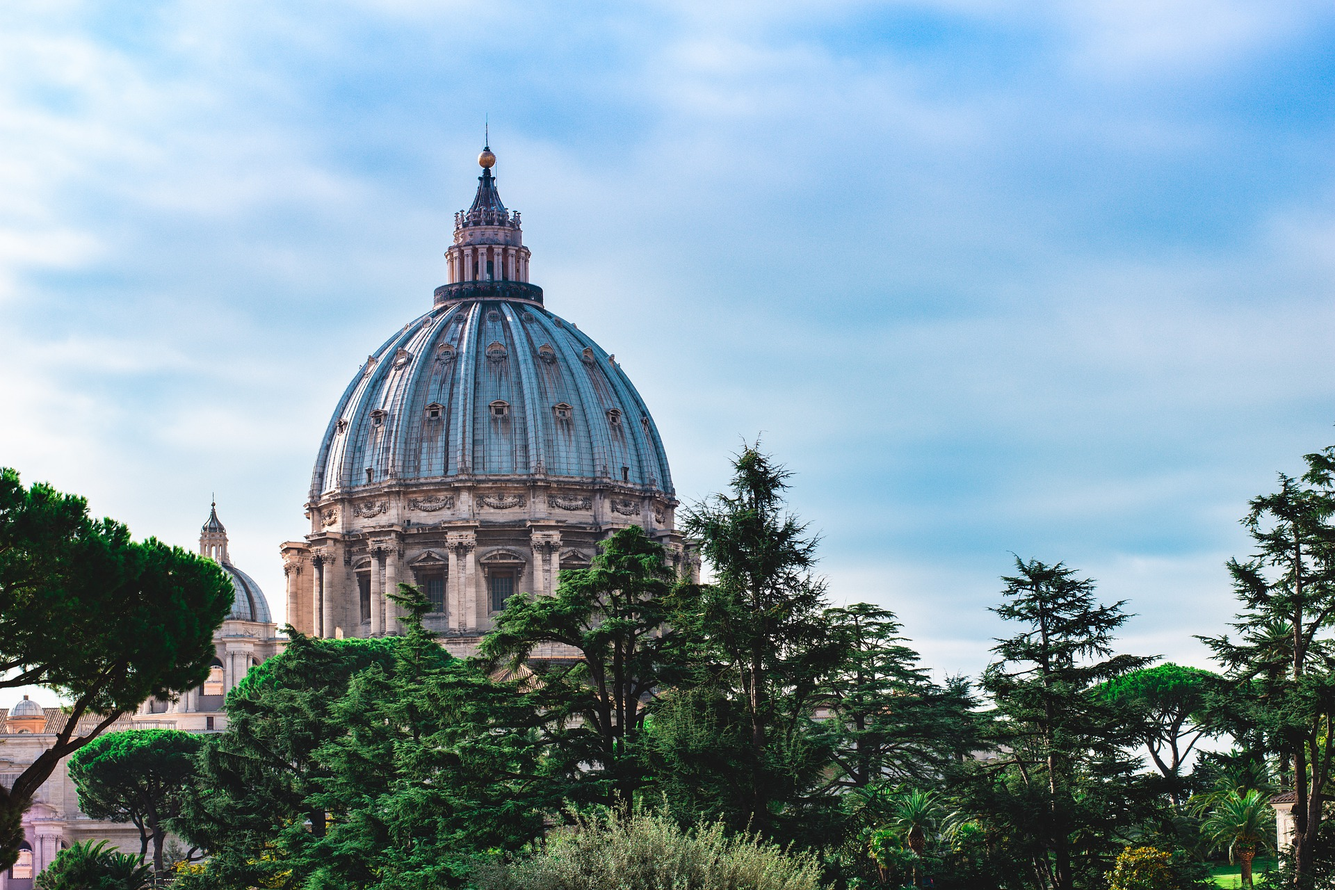
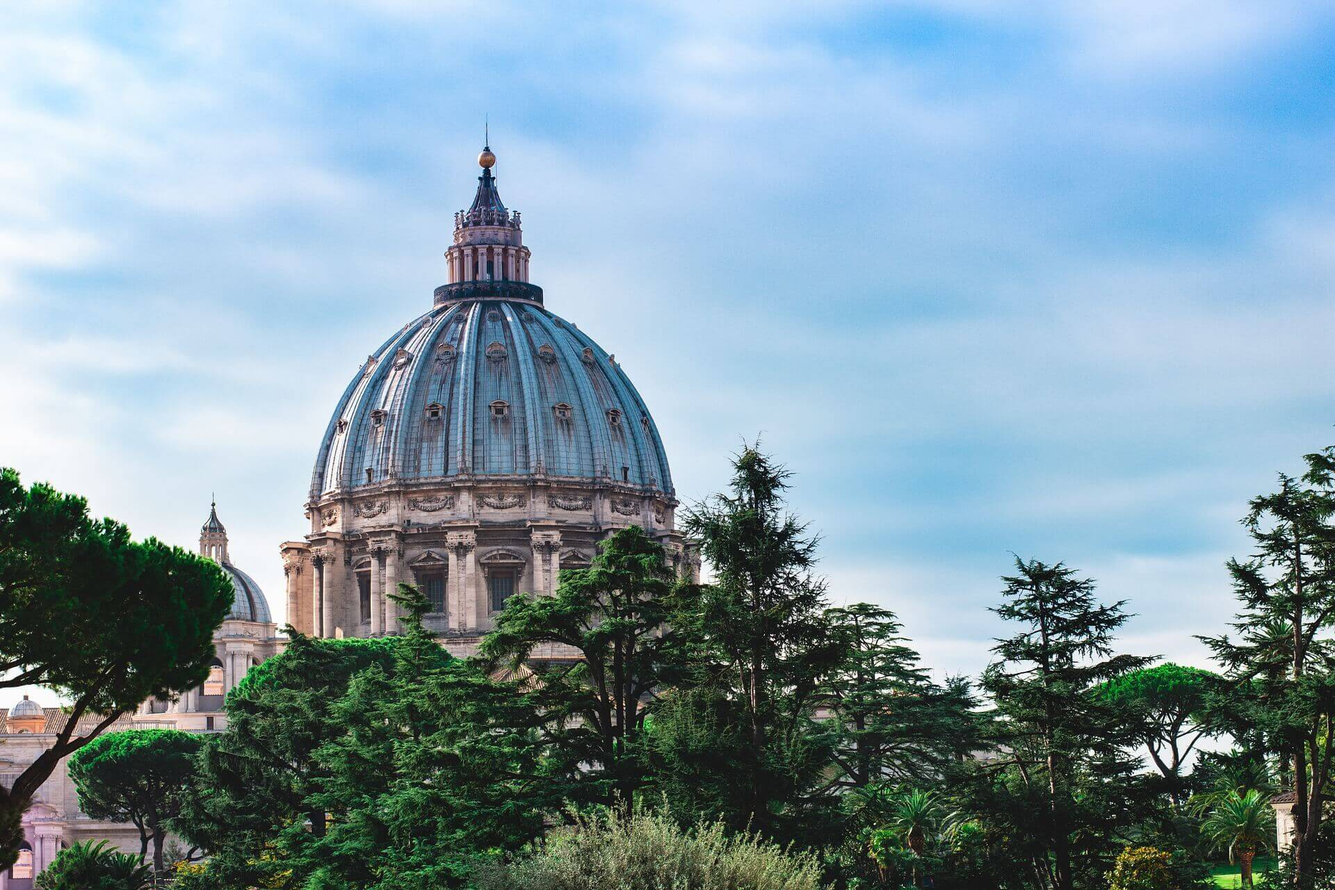
minimalize images, add media queries for navbar and home page, fixed bugs

diff --git a/src/components.js/Home.js b/src/components.js/Home.js
@@ -13,6 +13,7 @@ import img3 from '../assets/images/backgroundImg/img3.jpg'
 import img4 from '../assets/images/backgroundImg/img4.jpg'
 import img5 from '../assets/images/backgroundImg/img5.jpg'
 import RomaView from '../assets/images/backgroundImg/RomaView.jpg'
+import { Link } from 'react-router-dom';
 
 
 const Home = () => {
@@ -155,29 +156,29 @@ const Home = () => {
       <div
         className={`absolute top-0 left-0 right-0 bottom-0 `} style={{ backgroundImage: `url(${background})`, backgroundSize: 'cover', backgroundRepeat: 'no-repeat' }}></div>
 
-      <div className={`w-full  flex items-center overflow-y-hidden relative z-10`}>
+      <div className={`w-full  flex items-center overflow-hidden relative z-10`}>
         <ul className='ul-container text-gray-200 p-4 m-20 mr-25 bg-gray-800 opacity-75 transition duration-300 rounded-lg'>
 
-          <li className='monument-name m-5 relative' onMouseOver={() => onMouseOver('colloseum')} onMouseOut={() => onMouseOut('colloseum')}>Koloseum w Rzymie
-            <span className='block w-2/3 h-0.5 bg-gray-200 absolute -bottom-5 -left-10 transition duration'></span>
+          <li className='monument-name m-5 relative transition ' onMouseOver={() => onMouseOver('colloseum')} onMouseOut={() => onMouseOut('colloseum')}><Link to='/history#koloseum'>Koloseum w Rzymie</Link>
+            <span className='block w-2/3 h-0.5 bg-gray-200 absolute -bottom-5 -left-10 '></span>
           </li>
           <div className={` transition duration-500 home-img-container absolute ${mouseOn.colloseum.isHover ? 'flex flex-col' : `${mouseOn.colloseum.selected ? 'opacity-1' : 'opacity-0'}`}`}>
             <img src={colosseum} alt="colloseum" className='rounded-lg ' />
             <div className='flex items-center transition duration-1000 delay-300'>
-              <p className='text-xl mr-2 text-gray-500'>Let see something </p><ArrowRightAltIcon fontSize='large' className='text-gray-500' />
+              <p className='text-xl mr-2 text-gray-500'>Let see something</p><ArrowRightAltIcon fontSize='large' className='text-gray-500' />
             </div>
           </div>
 
-          <li className='monument-name m-5 relative' onMouseOver={() => onMouseOver('fontannaDiTrevi')} onMouseOut={() => onMouseOut('fontannaDiTrevi')}>Fontanna Di Trevi
+          <li className='monument-name m-5 relative' onMouseOver={() => onMouseOver('fontannaDiTrevi')} onMouseOut={() => onMouseOut('fontannaDiTrevi')}><Link to='/history#fontanna'>Fontanna Di Trevi</Link>
             <span className='block w-2/3 h-0.5 bg-gray-200 absolute -bottom-5 -left-10 transition duration'></span></li>
-          <div className={`transition duration-500 home-img-container absolute ${mouseOn.fontannaDiTrevi.isHover ? 'flex flex-col' : `${mouseOn.fontannaDiTrevi.selected ? 'opacity-1' : 'opacity-0'}`}`} >
+          <div className={` transition duration-500 home-img-container absolute ${mouseOn.fontannaDiTrevi.isHover ? 'flex flex-col' : `${mouseOn.fontannaDiTrevi.selected ? 'opacity-1' : 'opacity-0'}`}`} >
             <img src={fontannaDiTrevi} alt="fontannaDiTrevi" className='rounded-lg ' />
             <div className='flex items-center transition duration-1000 delay-300'>
               <p className='text-xl mr-2 text-gray-300'>Let see something </p><ArrowRightAltIcon fontSize='large' className='text-gray-300' />
             </div>
           </div>
 
-          <li className='monument-name m-5 relative' onMouseOver={() => onMouseOver('forumRomanum')} onMouseOut={() => onMouseOut('forumRomanum')}>Forum Romanum
+          <li className='monument-name m-5 relative' onMouseOver={() => onMouseOver('forumRomanum')} onMouseOut={() => onMouseOut('forumRomanum')}><Link to='/history#forumRomanum'>Forum Romanum</Link>
             <span className='block w-2/3 h-0.5 bg-gray-200 absolute -bottom-5 -left-10 transition duration'></span></li>
           <div className={`transition duration-500 home-img-container absolute ${mouseOn.forumRomanum.isHover ? 'flex flex-col' : `${mouseOn.forumRomanum.selected ? 'opacity-1' : 'opacity-0'}`}`} >
             <img src={forumRomanum} alt="fontannaDiTrevi" className='rounded-lg ' />
@@ -187,7 +188,7 @@ const Home = () => {
           </div>
 
 
-          <li className='monument-name m-5 relative' onMouseOver={() => onMouseOver('muzeaWatykanskie')} onMouseOut={() => onMouseOut('muzeaWatykanskie')} >Muzea Watykańskie
+          <li className='monument-name m-5 relative' onMouseOver={() => onMouseOver('muzeaWatykanskie')} onMouseOut={() => onMouseOut('muzeaWatykanskie')}><Link to='/history#muzeaWatykanskie'>Muzea Watykańskie</Link>
             <span className='block w-2/3 h-0.5 bg-gray-200 absolute -bottom-5 -left-10 transition duration'></span></li>
           <div className={`transition duration-500 home-img-container absolute ${mouseOn.muzeaWatykanskie.isHover ? 'flex flex-col' : `${mouseOn.muzeaWatykanskie.selected ? 'opacity-1' : 'opacity-0'}`}`} >
             <img src={muzeaWatykanskie} alt="fontannaDiTrevi" className='rounded-lg ' />
@@ -196,7 +197,7 @@ const Home = () => {
             </div>
           </div>
 
-          <li className='monument-name m-5 relative' onMouseOver={() => onMouseOver('kaplicaSykstynska')} onMouseOut={() => onMouseOut('kaplicaSykstynska')} >Kaplica Sykstyńska
+          <li className='monument-name m-5 relative' onMouseOver={() => onMouseOver('kaplicaSykstynska')} onMouseOut={() => onMouseOut('kaplicaSykstynska')}><Link to='/history#kaplicaSykstynska'>Kaplica Sykstyńska</Link>
             <span className='block w-2/3 h-0.5 bg-gray-200 absolute -bottom-5 -left-10 transition duration'></span></li>
           <div className={`transition duration-500 home-img-container absolute ${mouseOn.kaplicaSykstynska.isHover ? 'flex flex-col' : `${mouseOn.kaplicaSykstynska.selected ? 'opacity-1' : 'opacity-0'}`}`} >
             <img src={kaplicaSykstynska} alt="fontannaDiTrevi" className='rounded-lg ' />
@@ -204,9 +205,6 @@ const Home = () => {
               <p className='text-xl mr-2 text-gray-300'>Let see something </p><ArrowRightAltIcon fontSize='large' className='text-gray-300' />
             </div>
           </div>
-
-
-
         </ul>
       </div>
 
@@ -215,3 +213,7 @@ const Home = () => {
 }
 
 export default Home
+
+
+// dlaczego nie przenosi do odpowiedniego #. znalezc blad
+

diff --git a/src/components.js/Navbar.js b/src/components.js/Navbar.js
@@ -1,4 +1,5 @@
 import React from 'react'
+import "../styles/Navbar.css"
 import { useHistory } from 'react-router-dom'
 import flag from '../assets/images/flag.jpg'
 
@@ -7,18 +8,15 @@ const Navbar = ({ active }) => {
 
   const history = useHistory()
 
-
-
   return (
 
-    <div className={`absolute top-0 z-10 pt-10 flex justify-between items-center transform transition duration-200   ${active ? 'translate-x-0' : "-translate-x-full"} sm:p-4 sm:h-14 sm:w-full sm:flex sm:translate-x-0 `}>
-      <div className='ml-2 w-12 h-15'><img src={flag} alt="italy flag" /></div>
-      <h1 className='text-5xl pt-12 text-center text-gray-400'>Rome</h1>
-      <ul className=' flex flex-col justify-center items-center sm:flex-row'>
-        <li className='p-2 cursor-pointer rounded hover:bg-black hover:text-white hover:rounded transition duration-200' onClick={() => history.push('/home')}>Home</li>
-        <li className='p-2 cursor-pointer rounded hover:bg-black hover:text-white  hover:rounded  transition duration-200' onClick={() => history.push('/about')}>Projects</li>
-        <li className='p-2 cursor-pointer rounded hover:bg-black hover:text-white hover:rounded  transition duration-200' onClick={() => history.push('/history')}>History</li>
-        <li className='p-2 cursor-pointer rounded hover:bg-black hover:text-white hover:rounded  transition duration-200' onClick={() => history.push('/contact')}>About</li>
+    <div id='navbar' className={`z-20 w-full bg-gray-100 h-screen navbar absolute top-0 p-2 flex flex-col  items-center transform transition duration-200  ${active ? 'translate-x-0' : "-translate-x-full"} sm:p-10 sm:flex-row sm:justify-between sm:h-14 sm:translate-x-0  sm:bg-transparent`}>
+      <div className='mt-20 sm:mt-0 ml-2 w-12 h-15'><img src={flag} alt="italy flag" /></div>
+      <h1 className='hidden sm:block text-5xl text-center text-gray-400'>Rome</h1>
+      <ul className='mt-20 sm:mt-0 flex flex-col justify-center items-center sm:flex-row'>
+        <li className='mt-5 sm:mt-0 bg-black-5 p-2 cursor-pointer rounded hover:bg-black hover:text-white hover:rounded transition duration-200' onClick={() => history.push('/home')}>Home</li>
+        <li className='mt-10 sm:mt-0 p-2 cursor-pointer rounded hover:bg-black hover:text-white hover:rounded  transition duration-200' onClick={() => history.push('/history')}>History</li>
+        <li className='mt-5 sm:mt-0 p-2 cursor-pointer rounded hover:bg-black hover:text-white hover:rounded  transition duration-200' onClick={() => history.push('/about')}>About</li>
       </ul>
     </div>
   )

diff --git a/src/components.js/About.js b/src/components.js/About.js
@@ -2,17 +2,13 @@ import React from 'react'
 
 const About = ({ active }) => {
   return (
-    <div className={`card text-center ${active && 'ml-52 '}`}>
-      about
-
-      <p className=''>Lorem ipsum dolor sit amet consectetur adipisicing elit. Eius magni nulla, vero repudiandae officia saepe iste reprehenderit facilis dicta repellendus quisquam aut maiores maxime alias sed omnis cum sint harum.
-        Architecto corporis voluptas eligendi ipsum consequuntur ducimus! Nostrum placeat illo qui corporis, vero quas quod asperiores dolorum dignissimos cumque! Commodi delectus dignissimos et quis nisi totam reprehenderit aut illum sapiente?
-        Recusandae doloremque reiciendis harum tempora nulla quis dignissimos quia temporibus alias! Numquam vitae, sint vero aperiam, ullam consectetur accusantium minima quibusdam ipsa reprehenderit nemo explicabo. Voluptatum non sed maiores laboriosam!
-        Aut consequuntur consequatur, fugit ea, officia labore facere ipsa minima eligendi assumenda, cupiditate quas cumque? Labore fugit animi, nostrum, et exercitationem, obcaecati rerum totam molestias odio libero tenetur ipsum rem.
-        Velit quae nemo ea vitae est error fugiat deserunt odit eveniet facere iure, minima accusamus in corporis quo excepturi distinctio nostrum sunt suscipit dolores sint tenetur rem! Ad, error facilis!
-        Incidunt, veritatis eaque quod, perferendis similique aut eos ipsa mollitia omnis consectetur optio totam quo commodi porro quis necessitatibus nobis ea numquam nam? Eum exercitationem quia, labore laudantium non sed.
-        Ex voluptas, iste earum fuga inventore consectetur quis sed odit consequuntur accusantium numquam itaque perferendis quam omnis voluptate pariatur rem autem qui. Necessitatibus aperiam hic libero! Aut hic sunt aliquam.
-        Quasi praesentium atque aperiam neque, saepe tempora tempore eligendi consequuntur maiores deserunt odit. Asperiores, optio excepturi. Sint ea eos </p>
+    <div className={`card text-center ${active && 'ml-52'} `}>
+      <p className='mt-10 ml-20 mr-20 w-auto'>
+        Hi! This website was created randomly. It was made to practice tailwind.
+        <br />
+        <br />
+        Not for commercial using.
+      </p>
     </div>
   )
 }

diff --git a/src/App.js b/src/App.js
@@ -11,7 +11,7 @@ import {
 import Home from './components.js/Home';
 import About from "./components.js/About";
 import Start from "./components.js/Start";
-import History from "./components.js/History";
+import History from "./components.js/History/History";
 import { AnimatePresence, motion } from 'framer-motion';
 
 
@@ -28,9 +28,12 @@ function App() {
 
   useEffect(() => {
     window.addEventListener('resize', updateWidthAndHeight)
+    if (breakpoint >= 640) {
+      setActive(false)
+    }
     return () => window.removeEventListener('resieze', updateWidthAndHeight)
   })
-
+  console.log(active)
   return (
     <motion.div
       // initial={{ x: 300, opacity: 0 }}
@@ -39,13 +42,13 @@ function App() {
       className="App relative font-sans">
       <Router>
         <Navbar active={active} />
-        {breakpoint <= 640 ? <MenuIcon onClick={onClickButton} className='absolute top-3 left-3 z-10 cursor-pointer sm:z-0 sm:text-red-400' /> : ''}
+        {breakpoint <= 640 ? <MenuIcon onClick={onClickButton} className='fixed top-3 left-3 z-20 cursor-pointer sm:z-0 sm:text-red-400' /> : ''}
         <AnimatePresence exitBeforeEnter>
           <Switch>
             <Route path='/' exact><Start /></Route>
             <Route component={Home} path='/home' />
             <Route path='/about'><About active={active} /></Route>
-            <Route component={History} path='/history' />
+            <Route path='/history' ><History active={active}></History></Route>
           </Switch>
         </AnimatePresence>
       </Router>

diff --git a/src/styles/Home.css b/src/styles/Home.css
@@ -8,8 +8,10 @@
 .ul-container li{
   transition: 1s 0.3s;
 }
+
 .ul-container li:nth-child(n):hover span{
-  left: 10%
+  left: 10%;
+  transition: 0.3s ease-in;
 }
 .home-img-container{
   width: 800px;
@@ -20,4 +22,69 @@
 .home-img-container img{
   width:80%;
   height: 80%;
+}
+@media screen and (max-width: 1500px) {
+  .home-img-container{
+    top: 5%;
+    right: -5%;
+  }
+}
+@media screen and (max-width: 1300px) {
+  .home-img-container{
+    width:650px;
+    height: 450px;
+    top: 10%;
+  }
+
+  .ul-container li{
+font-size: 28px;
+  }
+}
+
+@media screen and (max-width: 1100px) {
+  .home-img-container{
+    width:550px;
+    height: 450px;
+
+  }
+
+  .ul-container li{
+    font-size: 24px;
+  }
+}
+
+@media screen and (max-width: 1000px) {
+  .home-img-container{
+    display: none;
+  }
+  .ul-container{
+    display: flex;
+    flex-direction: column;
+}
+  .ul-container li{
+    font-size: 24px;
+  }
+  .ul-container li span{
+    display: none;
+      }
+}
+
+@media screen and (max-width: 600px) {
+  .ul-container li{
+    margin:20px;
+    font-size: 20px;
+  }
+}
+@media screen and (max-width: 450px) {
+  .ul-container li{
+    margin:10px;
+    font-size: 20px;
+  }
+}
+
+@media screen and (max-width: 361px) {
+  .ul-container li{
+    margin:5px;
+    font-size: 15px;
+  }
 }

diff --git a/src/components.js/History/History.js b/src/components.js/History/History.js
@@ -1,0 +1,21 @@
+import React from 'react'
+import Monument from './Monument/Monument'
+import monumentsData from './Monument/monuments.json'
+import ArrowUpwardIcon from '@material-ui/icons/ArrowUpward'
+
+const History = ({ active }) => {
+  return (
+    <div className={`${active && 'hidden'} w-auto pt-16 cards overflow-hidden bg-gradient-to-r from-green-100 via-gray-100 to-red-100`}>
+
+      {monumentsData.map((monument, index) => (
+        <Monument key={index} monumentName={monument.pl.name} description={monument.pl.description} id={monument.pl.id} />
+      ))}
+      <a href="history#navbar"><ArrowUpwardIcon className='text-4xls rounded-full cursor-pointer fixed bottom-12 right-12 hover:bg-black hover:text-white'> </ArrowUpwardIcon></a>
+
+    </div>
+  )
+}
+
+export default History
+
+//rozwiazac problem z obrazakami, jak zmienic src bez importowania danego obrazka

diff --git a/src/components.js/Start.js b/src/components.js/Start.js
@@ -13,7 +13,7 @@ const Start = () => {
 
   return (
     <div
-      className={`shadow-xl opacity-1 flex justify-center items-center flex-col  bg-gradient-to-r from-green-400 via-gray-100 to-red-500 text-white w-screen h-screen absolute top-0 trasition duration-200 ${animation}`} >
+      className={`shadow-xl opacity-1 flex justify-center items-center flex-col  bg-gradient-to-r from-green-400 via-gray-100 to-red-500 text-white w-screen h-screen absolute top-0 trasition duration-200 ${animation} z-20`} >
 
       <div className={` h-full flex-1 flex text-center items-center p-10`}>
         <Typing

diff --git a/src/components.js/History/Monument/Monument.js b/src/components.js/History/Monument/Monument.js
@@ -1,0 +1,15 @@
+import React from 'react'
+
+const Monument = ({ monumentName, description, id }) => {
+  return (
+    <div className='pl-52 pr-52 mt-10 mb-20' id={id} name={id}>
+      <h1 className='text-lg'>{monumentName}</h1>
+      <p className='mt-5 mb-5'>{description}</p>
+      <div className='p-10'><img src={''} alt='obrazek' /></div>
+
+
+    </div>
+  )
+}
+
+export default Monument

diff --git a/src/index.css b/src/index.css
@@ -1,13 +1,16 @@
 @import url('https://fonts.googleapis.com/css2?family=Rampart+One&display=swap');
 
-
+html{
+  scroll-behavior: smooth;
+  overflow-x: hidden;
+}
 
 @tailwind base;
 @tailwind components;
 @tailwind utilities;
 
 .card {
-  @apply h-screen w-screen pt-20
+  @apply h-screen w-screen pt-20 
 }
 
 .monument-name{

diff --git a/src/styles/Navbar.css b/src/styles/Navbar.css
@@ -1,0 +1,4 @@
+.navbar li{
+  margin: 3px;
+  background-color: rgba(132, 47, 201, 0.2);
+}
